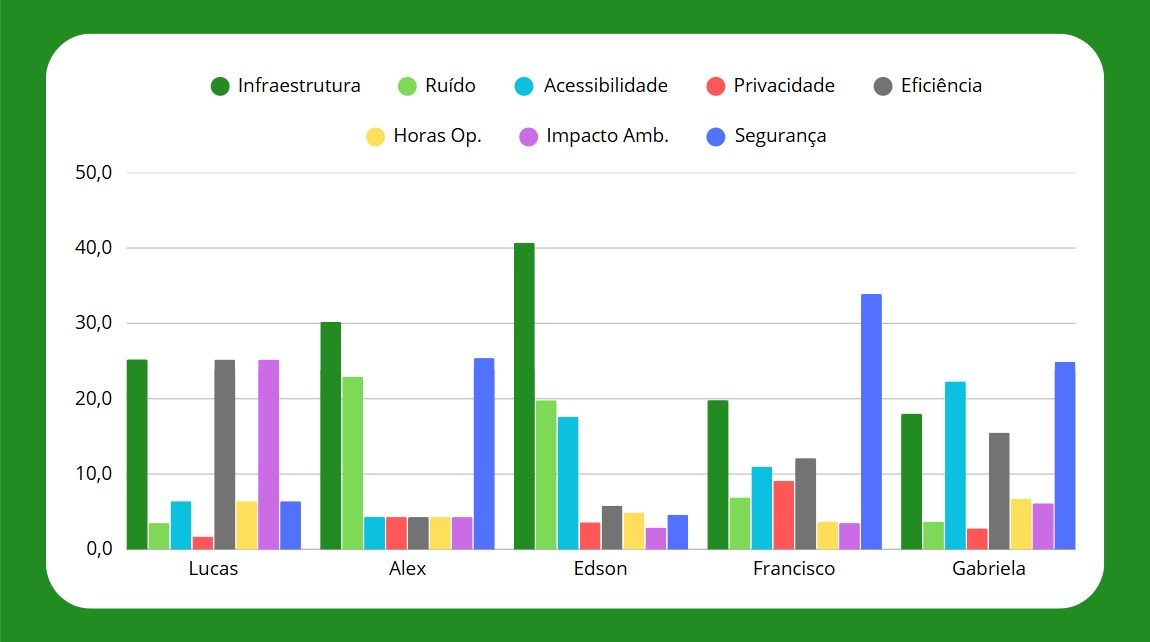
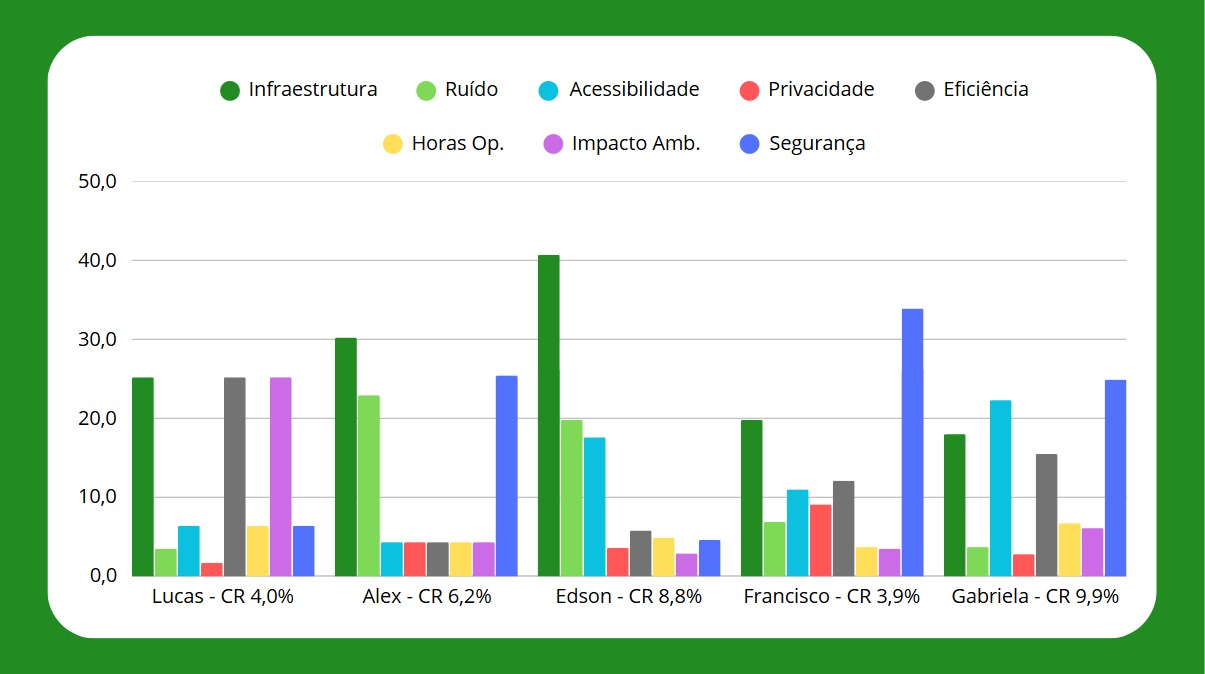
Atualizando arquivos e alterações no ProjetoTesteMkDocs

diff --git a/docs/atv2.md b/docs/atv2.md
@@ -19,18 +19,6 @@ Para **avaliar a escolha do sítio** são usados **critérios** que consideram d
 
 AHP é uma **metodologia de tomada de decisão** que organiza e analisa complexos problemas através de uma estrutura hierárquica, permitindo **comparar e priorizar alternativas com base em critérios** quantitativos e qualitativos.
 
-| Critério/Membro  | Lucas  | Alex   | Edson  | Francisco | Gabriela |
-|-----------------|--------|--------|--------|-----------|----------|
-| Infraestrutura  | 25,2%  | 30,2%  | 40,7%  | 19,8%     | 18,0%    |
-| Ruído          | 3,5%   | 22,9%  | 19,8%  | 6,9%      | 3,7%     |
-| Acessibilidade | 6,4%   | 4,3%   | 17,6%  | 11,0%     | 22,3%    |
-| Privacidade    | 1,7%   | 4,3%   | 3,6%   | 9,1%      | 2,8%     |
-| Eficiência     | 25,2%  | 4,3%   | 5,8%   | 12,1%     | 15,5%    |
-| Horas Op.      | 6,4%   | 4,3%   | 4,9%   | 3,7%      | 6,7%     |
-| Impacto Amb.   | 25,2%  | 4,3%   | 2,9%   | 3,5%      | 6,1%     |
-| Segurança      | 6,4%   | 25,4%  | 4,6%   | 33,9%     | 24,9%    |
-| CR             | 4,0%   | 6,2%   | 8,8%   | 3,9%      | 9,9%     |
-
 **Figura 1 - Resultados individuais para AHP dos oito critérios para escolha de sítio**  
 ![Figura 1 - Resultados individuais para AHP dos oito critérios para escolha de sítio](assets/ahpindi.jpg)  
 
@@ -43,7 +31,7 @@ AHP é uma **metodologia de tomada de decisão** que organiza e analisa complexo
 - Tendência a valorizar a infraestrutura e segurança
 - Tendência a desvalorizar a privacidade e horas de operação
 - Tendência de manter a importância do ruído, acessibilidade, impacto ambiental e eficiência como medianos
-- Todos as razões de consistência abaixo de 10%
+- Razões de consistência abaixo de 10%
 
 ---
 
@@ -58,7 +46,7 @@ AIP é o **processo de combinar as prioridades individuais** de diferentes pesso
 
 ## Possíveis Sítios ##
 
-- Aeroporto Internacional de SJC Professor Urbano Ernesto Stumpf: Integração multimodal e logística
+- Aeroporto Internacional de SJC Prof. Urbano E. Stumpf: Integração multimodal e logística
 - Bairro Urbanova: Comunidade residencial e acadêmica
 - Parque Tecnológico: Foco em negócios e inovação
 - Shopping Colinas: Público de alto poder aquisitivo e comércio
@@ -69,5 +57,8 @@ AIP é o **processo de combinar as prioridades individuais** de diferentes pesso
 ---
 
 ## AHP e AIP Sítios ##
-´
 
+Com o **AHP dentre os sítios para cada critério**, é possível definir um **AIP para todas as possibilidades de sítio**.
+
+**Figura 4 - Resultados do grupo para AIP dos quatro sítios de acordo com cada critério**  
+![Figura 4 - Resultados do grupo para AIP dos quatro sítios de acordo com cada critério](assets/aip2.jpg)
